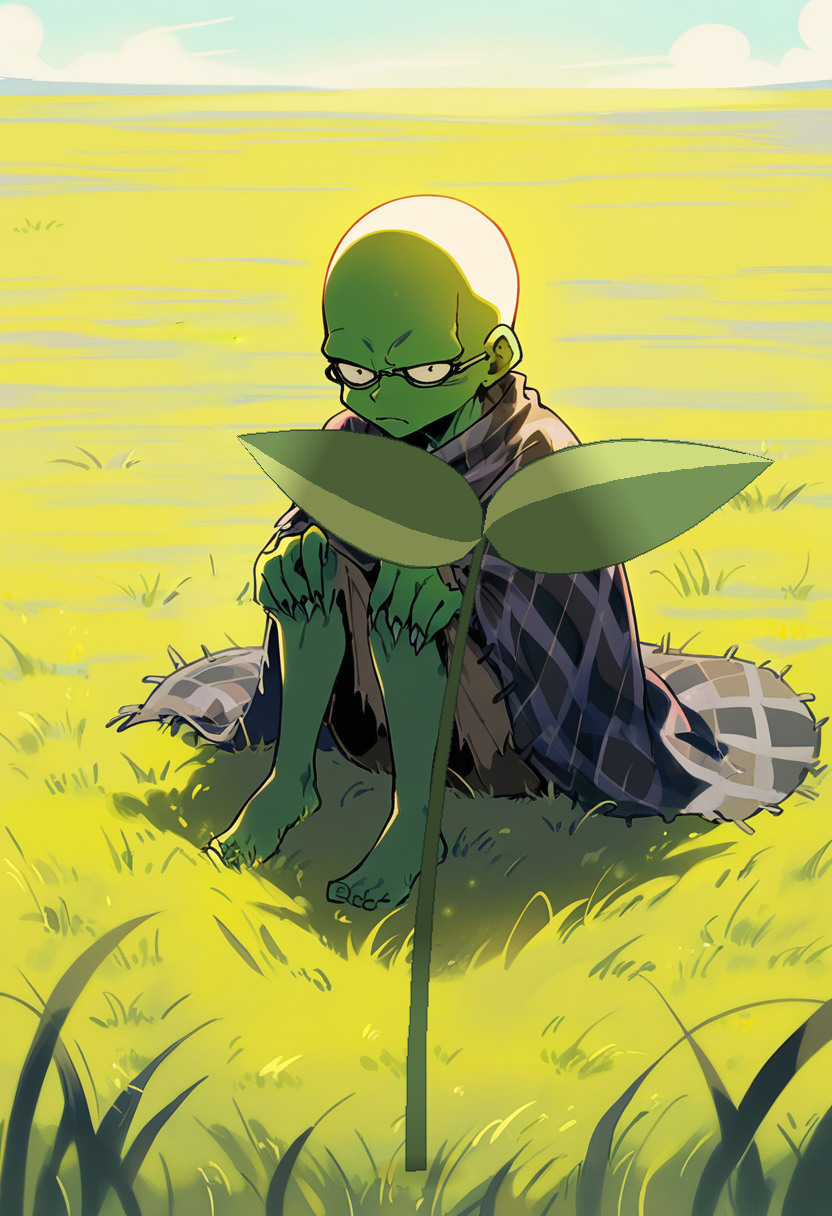
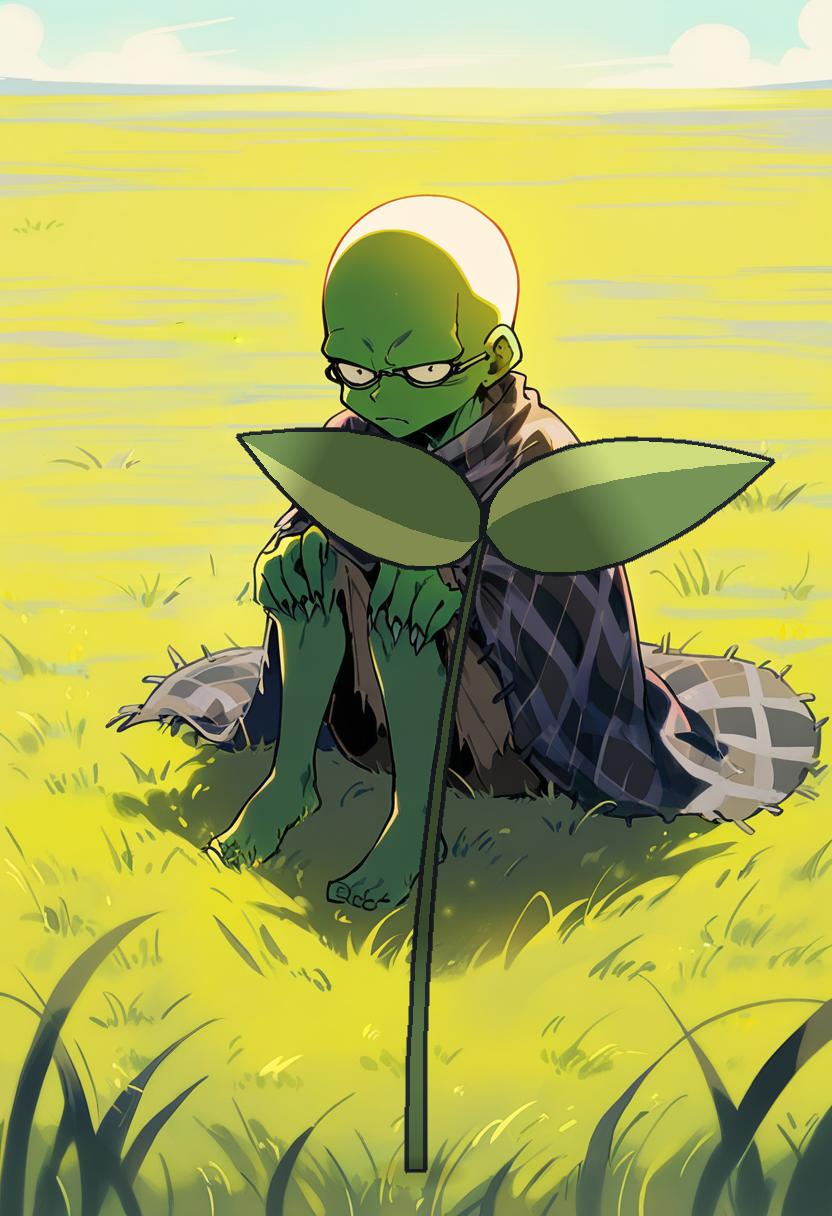
the pass returned perfect shading and no edge, because I inked the subject in the weed's line
Beat 16 rung 2 on the compositor. The first 0.30 sample is judged and it is a
PARTIAL with one named cause.

What passed: S1 it reads as beat 16 - the sapling is the subject, he is depth
behind it. S2 two leaves on one stem. S3 average leaves, ordinary ovate. S5 one
plant, the erased weed stays gone. S6 he survives unchanged.

What the numbers say about S4, and they say the opposite of the big-leaf
attempt. Detail inside the mask 4.615 -> 4.524, and on the drawn plant alone
3.771 -> 3.845 - it went UP. Movement 14.5 mean |delta| per pixel on the plant,
which is the working band (b19 measured 14.5 at 0.30). The big-leaf composite
that did nothing read 10.45 -> 9.41. So the pass was not idle and mask AREA, not
object SPAN, is what it cares about. That was the bet in failure_predicted_in_
advance and it is won.

What failed by eye, which outranks all of that: THE LEAVES CAME BACK WITH NO
LINE. Beautifully graded, soft, and outline-less, sitting in front of a
hard-inked cel drawing - the decal read arriving through line weight instead of
through colour.

The cause is mine and it is measured. The plate's character ink is median RGB
(25,31,35), luma 30, and its outlines run a median of 4 px. I drew the blades
with PIL's 1 px `outline=` in the erased weed's darkest green, (49,72,50), luma
63 - half the darkness at a quarter of the width. At 0.30 with pad-crop 64 and
blur 8 that line dissolves. b19's section 5 already says it: in this dialect a
[…]

diff --git a/pipeline/beat16_sapling_composite.py b/pipeline/beat16_sapling_composite.py
@@ -96,7 +96,7 @@ def qbez(p0, p1, p2, t):
             u * u * p0[1] + 2 * u * t * p1[1] + t * t * p2[1])
 
 
-def draw_taper(d, p0, p1, p2, w0, w1, fill, ink):
+def draw_taper(d, p0, p1, p2, w0, w1, fill, ink, ink_w=4):
     """A stem is a tapered polygon, not a stroked line: PIL's line joins at 3 px
     read as a chain of dots at 1x, which is decal tell #4."""
     left, right = [], []
@@ -111,7 +111,9 @@ def draw_taper(d, p0, p1, p2, w0, w1, fill, ink):
         r = 0.5 * (w0 + (w1 - w0) * t)
         left.append((x + nx * r, y + ny * r))
         right.append((x - nx * r, y - ny * r))
-    d.polygon(left + right[::-1], fill=fill, outline=ink)
+    ring = left + right[::-1]
+    d.polygon(ring, fill=fill, outline=ink)
+    outline(d, ring, ink, ink_w)
 
 
 def _blade(base, tip, width, k=1.0):
@@ -132,7 +134,26 @@ def _blade(base, tip, width, k=1.0):
     return out
 
 
-def draw_leaf(d, base, tip, width, fill, hi, ink, lit_sign):
+def outline(d, pts, ink, w):
+    """A CEL LINE, not PIL's 1 px `outline=`.
+
+    MEASURED FAILURE, first sample of this instrument. The plate's own character
+    ink is median RGB (25,31,35) -- luma 30 -- and its outlines run a median of
+    4 px, up to 28 on major contours. The first version drew the blades with a
+    1 px `outline=` in a colour sampled from the erased weed, (49,72,50), luma
+    63: half the darkness at a quarter of the width. At strength 0.30 with
+    pad-crop 64 and blur 8 that line DISSOLVED -- the pass returned beautifully
+    graded leaves with NO EDGE, soft airbrushed shapes sitting in front of a
+    hard-inked cel drawing, which is the decal read arriving through line weight
+    instead of through colour. b19's §5 law is that in this dialect a strong
+    dark line IS an edge; a weak one is nothing.
+    """
+    if w <= 1:
+        return
+    d.line(list(pts) + [pts[0]], fill=ink, width=w, joint="curve")
+
+
+def draw_leaf(d, base, tip, width, fill, hi, ink, lit_sign, ink_w=4):
     """One blade in the plate's dialect: mid-green ovate body, dark cel outline,
     a lighter CRESCENT along the LIT edge. NO MIDRIB IS DRAWN -- in this dialect
     a strong dark line IS an edge, and a composited internal line stronger than
@@ -144,15 +165,18 @@ def draw_leaf(d, base, tip, width, fill, hi, ink, lit_sign):
     so the crescent lands on the side the field is actually lit from.
     """
     prof = _blade(base, tip, width)
-    d.polygon([(x + rx, y + ry) for x, y, rx, ry in prof]
-              + [(x - rx, y - ry) for x, y, rx, ry in reversed(prof)],
-              fill=fill, outline=ink)
+    ring = ([(x + rx, y + ry) for x, y, rx, ry in prof]
+            + [(x - rx, y - ry) for x, y, rx, ry in reversed(prof)])
+    d.polygon(ring, fill=fill, outline=ink)
     hp = _blade(base, tip, width, k=0.96)
     s = float(lit_sign)
     d.polygon([(x + s * rx, y + s * ry) for x, y, rx, ry in hp]
               + [(x + s * rx * 0.34, y + s * ry * 0.34)
                  for x, y, rx, ry in reversed(hp)],
               fill=hi)
+    # the line goes on LAST, over the fill and over the highlight, so the
+    # crescent cannot cut it. Drawn at the plate's own line weight.
+    outline(d, ring, ink, ink_w)
 
 
 # ---------------------------------------------------------------------------
@@ -172,6 +196,19 @@ def dilate(m: np.ndarray, r: int) -> np.ndarray:
         s[:-1, :] |= out[1:, :]
         s[:, 1:] |= out[:, :-1]
         s[:, :-1] |= out[:, 1:]
+        out = s
+    return out
+
+
+def erode(m: np.ndarray, r: int) -> np.ndarray:
+    """b19's 4-neighbour erosion, the dual of dilate."""
+    out = m.copy()
+    for _ in range(r):
+        s = out.copy()
+        s[1:, :] &= out[:-1, :]
+        s[:-1, :] &= out[1:, :]
+        s[:, 1:] &= out[:, :-1]
+        s[:, :-1] &= out[:, 1:]
         out = s
     return out
 
@@ -270,6 +307,24 @@ def sha256_of(path: str) -> str:
         return hashlib.sha256(fh.read()).hexdigest()
 
 
+def _character_ink(a: np.ndarray) -> tuple:
+    """The darkest ink in the plate — the colour its FIGURES are outlined in.
+
+    Taken as the median of everything under a fixed INK CUTOFF, not as a
+    percentile. A percentile finds the darkest pixels in the frame, which are the
+    deepest points of the ink and its shadows -- 0.5% returned (2,2,2) on the b15
+    plate, near pure black, and true black reads as pasted in this dialect. The
+    median of `lum < 60` is what the outlines actually are: (25,31,35) on that
+    same plate, a desaturated blue-black, which is the number this was measured
+    against by hand.
+    """
+    lum = 0.299 * a[..., 0] + 0.587 * a[..., 1] + 0.114 * a[..., 2]
+    sel = lum < 60.0
+    if int(sel.sum()) < 200:            # a plate with no ink at all
+        sel = lum <= np.percentile(lum, 1.0)
+    return tuple(int(v) for v in np.median(a[sel], axis=0))
+
+
 def palette_from_erased(a: np.ndarray, weed: np.ndarray) -> dict:
     """Sample the drawn plant's colours FROM THE PLANT THIS TOOL IS DELETING.
 
@@ -288,7 +343,14 @@ def palette_from_erased(a: np.ndarray, weed: np.ndarray) -> dict:
     return {"dark": tuple(int(v) for v in np.percentile(px, 18, axis=0)),
             "mid": tuple(int(v) for v in np.percentile(px, 45, axis=0)),
             "light": tuple(int(v) for v in np.percentile(px, 86, axis=0)),
-            "ink": tuple(int(v) for v in np.median(a[ink], axis=0)),
+            # THE INK IS THE PLATE'S CHARACTER INK, NOT THE WEED'S. The weed is
+            # a background prop drawn with a light, thin line; the sapling is
+            # this shot's SUBJECT and has to carry the line weight the figure
+            # carries. Measured on this plate: his ink is median (25,31,35),
+            # luma 30, while the weed's darkest green is (49,72,50), luma 63.
+            # The first sample outlined the blades with the weed's colour and
+            # the 0.30 pass erased the edge entirely.
+            "ink": _character_ink(a),
             "n_sampled": int(leaf.sum()), "source": "the erased weed"}
 
 
@@ -316,7 +378,9 @@ def foliage_palette(a: np.ndarray, region: np.ndarray) -> dict:
     dark, mid, light = pct(0.14), pct(0.50), pct(0.88)
     # The ink is the plate's own darkest line colour, not black: this dialect
     # outlines in a dark desaturated navy/green, and true black reads as pasted.
-    ink = tuple(int(v * 0.42) for v in dark)
+    # Same law as palette_from_erased: the SUBJECT is inked in the plate's
+    # character ink, not in a darkened tint of its own fill.
+    ink = _character_ink(a)
     return {"dark": dark, "mid": mid, "light": light, "ink": ink,
             "n_sampled": int(green.sum())}
 
@@ -363,6 +427,16 @@ def main() -> int:
                          "mask eight times the working size (b16 leafcomp, "
                          "detail 10.45 -> 9.41); this is the guard that keeps "
                          "the restage from repeating it.")
+    ap.add_argument("--ink-width", type=int, default=4,
+                    help="cel-outline width in px. DEFAULT MEASURED ON THE "
+                         "PLATE, not chosen: the b15 plate's own character "
+                         "outlines run a median of 4 px (up to 28 on major "
+                         "contours) in ink of median RGB (25,31,35). The first "
+                         "sample of this instrument used PIL's 1 px `outline=` "
+                         "in the erased weed's (49,72,50) -- half the darkness "
+                         "at a quarter of the width -- and the 0.30 pass "
+                         "dissolved the edge completely, returning graded "
+                         "leaves with no line in front of a hard-inked drawing.")
     ap.add_argument("--mask-dilate", type=int, default=9)
     ap.add_argument("--erase-box", default=None,
                     help="x0,y0,x1,y1 — a plant ALREADY in the plate, erased "
@@ -548,7 +622,8 @@ def main() -> int:
     stem_col = tuple(int(min(255, v)) for v in np.array(pal["dark"]) * 0.88 + 12)
     stem_w0 = max(4.0, a.height * 0.030)
     stem_w1 = max(2.0, a.height * 0.013)
-    draw_taper(d, (rx, ry), mid, apex, stem_w0, stem_w1, stem_col, ink)
+    draw_taper(d, (rx, ry), mid, apex, stem_w0, stem_w1, stem_col, ink,
+               ink_w=a.ink_width)
 
     # TWO LEAVES, NOT A MIRRORED PAIR: 5 px apart on the stem and 6% apart in
     # length. Decal tell #4 is a visible repeat, and two identical blades
@@ -559,7 +634,8 @@ def main() -> int:
         ang = tilt + side * spread
         ln = leaf_len * k
         tip = (node[0] + ln * np.sin(ang), node[1] - ln * np.cos(ang) * 0.62)
-        draw_leaf(d, node, tip, ln * 0.40, pal["mid"], pal["light"], ink, lit_sign)
+        draw_leaf(d, node, tip, ln * 0.40, pal["mid"], pal["light"], ink,
+                  lit_sign, ink_w=a.ink_width)
         leaves.append({"side": side, "node": [round(v, 1) for v in node],
                        "tip": [round(v, 1) for v in tip], "len": round(ln, 1)})
 
@@ -664,12 +740,24 @@ def main() -> int:
     if abs(leaves[0]["len"] - leaves[1]["len"]) < 0.02 * leaf_len:
         fails.append("C4 the two blades are the same length: a mirrored pair is "
                      "decal tell #4, one blade drawn twice")
-    lum_plant = float(np.asarray(Image.fromarray(comp).convert("L"))[drawn].mean())
+    # C5 MEASURES THE FILL, NOT THE OUTLINE, and that is a correction rather
+    # than a loosening. The check exists to catch a plant whose COLOUR does not
+    # belong to the frame. A correct cel outline is supposed to be near-black,
+    # so the moment the ink was fixed from 1 px of (49,72,50) to 4 px of
+    # (25,31,35) the whole-silhouette mean fell 46.4 below the field and C5
+    # fired on the fix. Eroding the silhouette past the line measures the body
+    # colour, which is what the check was always about; the ink has its own
+    # check in the eye, and C1 still bounds where any of it may be written.
+    interior = erode(drawn, max(2, a.ink_width))
+    if int(interior.sum()) < 500:
+        interior = drawn
+    lum_plant = float(np.asarray(Image.fromarray(comp).convert("L"))[interior].mean())
     lum_field = float(np.asarray(Image.fromarray(arr).convert("L"))[region].mean())
-    geom["plant_mean_luma"] = round(lum_plant, 1)
+    geom["plant_fill_luma"] = round(lum_plant, 1)
     geom["field_mean_luma"] = round(lum_field, 1)
+    geom["c5_measures"] = "the drawn plant's FILL, silhouette eroded by ink_width"
     if abs(lum_plant - lum_field) > 46:
-        fails.append("C5 the plant's mean luma %.1f is %.1f away from the "
+        fails.append("C5 the plant's FILL luma %.1f is %.1f away from the "
                      "field's %.1f -- it will read as pasted before the pass "
                      "ever runs" % (lum_plant, abs(lum_plant - lum_field),
                                     lum_field))
